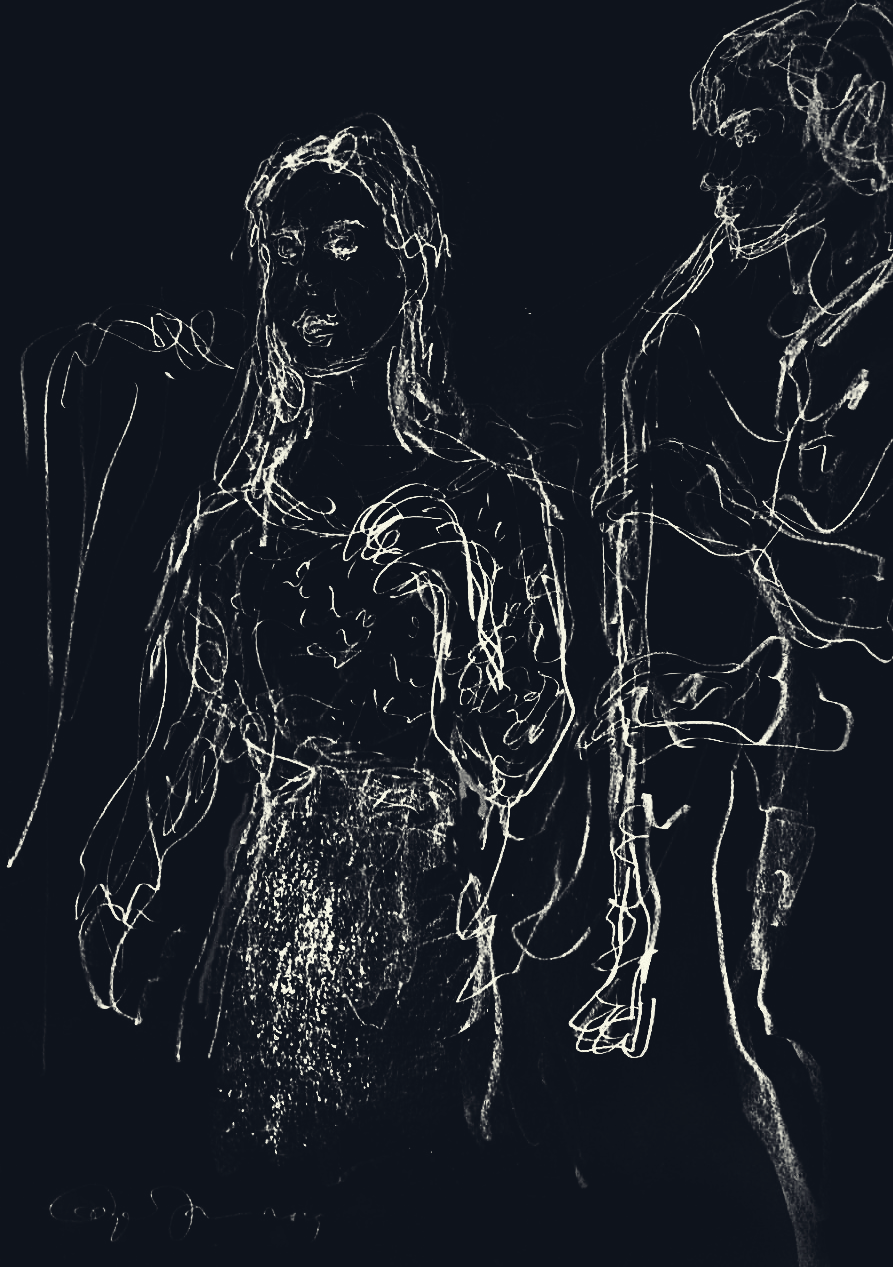
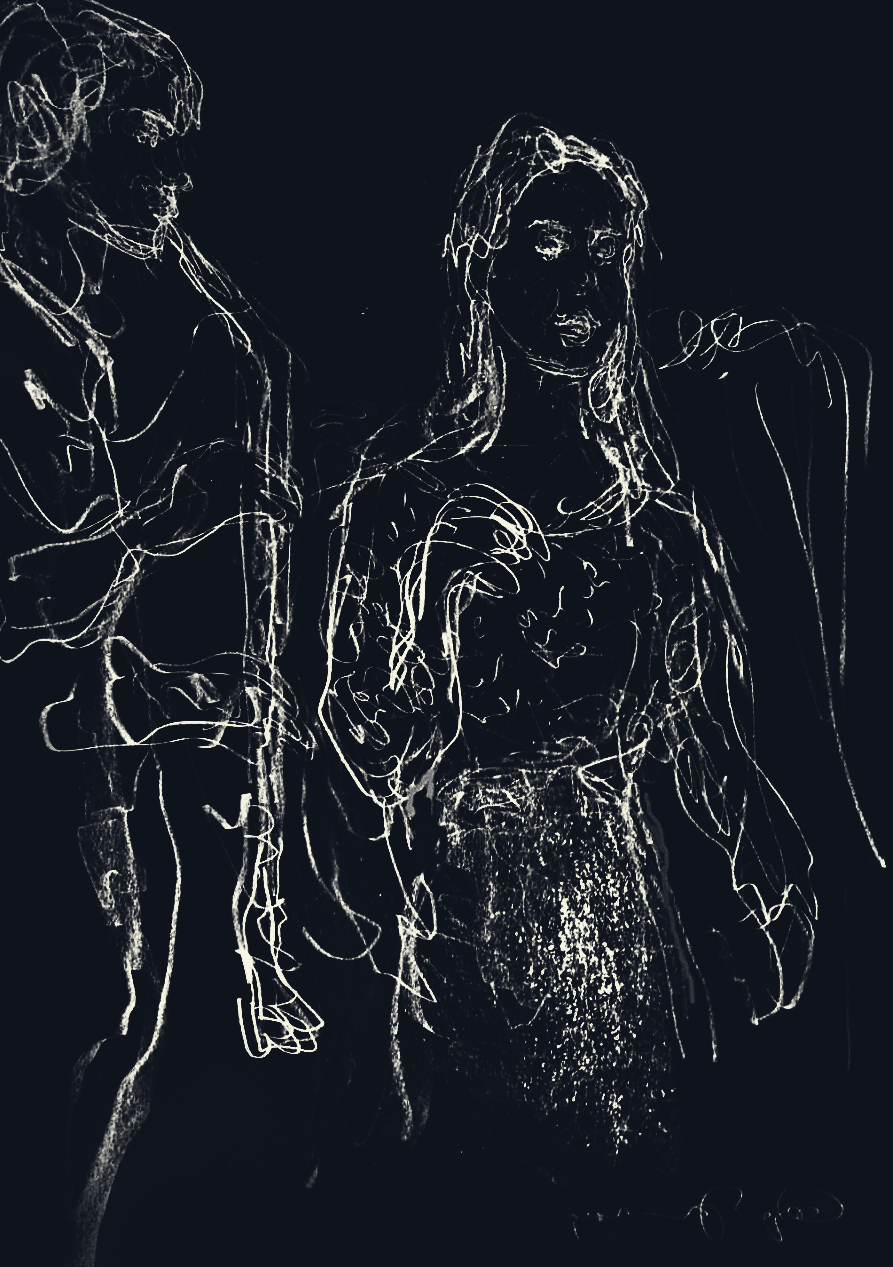
background image edits and fix lang menu flicker on narrow

diff --git a/layouts/partials/language-switcher.html b/layouts/partials/language-switcher.html
@@ -1,5 +1,5 @@
 {{ if .Site.IsMultiLingual }}
-<div id="langswitcher" onmouseout="languageOnMouse()" onmouseover="languageOnMouse()" ontouchend="languageOnMouse()">
+<div id="langswitcher" onmouseout="languageOnMouse()" onmouseover="languageOnMouse()" ontouchend="languageToggle()">
   {{ range .Site.Languages }}
   {{ $lang := . }}
 
@@ -14,7 +14,7 @@
   
   {{end}}
 
-  <a class="langbutt" href="{{ $.Page.Permalink }}">{{ T "language" }}</a>
+  <a class="langbutt textholder" href="{{ $.Page.Permalink }}">{{ T "language" }}</a>
 
 {{ end }}
 

diff --git a/assets/css/main.scss b/assets/css/main.scss
@@ -11,6 +11,7 @@ html {
   box-sizing: border-box;
   color: $textcolor;
 }
+
 body {
   height: 100%;
   margin: 0;
@@ -48,8 +49,8 @@ body {
 }
 
 .textholder {
-  background-color: rgba(17, 20, 29, 0.7);
-  box-shadow: 0px 0px 40px 40px rgba(17, 20, 29, 0.7)
+  background-color: rgba(6, 11, 22, 0.7);
+  box-shadow: 0px 0px 40px 40px rgba(6, 11, 22, 0.7)
 }
 
 a {
@@ -65,7 +66,7 @@ a {
   position: fixed;
   z-index: -1;
   bottom: 0px;
-  right: 0px;
+  left: 0px;
   height: 100vh;
   overflow: hidden;
 }

diff --git a/assets/css/nav.scss b/assets/css/nav.scss
@@ -35,7 +35,7 @@
     height: fit-content;
     .langbutt {
       display: inline;
-      opacity: 50%;
+      opacity: 70%;
     }
     a {
       display: none;
@@ -108,8 +108,10 @@
     width: 0;
     position: absolute;
     display: flex;
-    justify-content: space-evenly;
+    justify-content: space-between;
     padding-top: 2rem;
+    padding-left: 4vw;
+    padding-right: 4vw;
     animation: fadeIn 2s;
     a {
       font-family: EB Garamond, 'Crimson Text', serif;

diff --git a/layouts/partials/foot.html b/layouts/partials/foot.html
@@ -8,6 +8,11 @@
     }
   }
   function languageOnMouse() {
+    if (window.matchMedia('(min-device-width: 1070px)').matches) {
+        languageToggle()
+    }
+  }
+  function languageToggle() {
       document.getElementById("menu").classList.toggle("language")
   }
 </script>

diff --git a/assets/css/colors.scss b/assets/css/colors.scss
@@ -1,2 +1,2 @@
 $textcolor: #FFFEEE;
-$bgcolor: #11141D;
+$bgcolor: #060B16;//#11141D;
